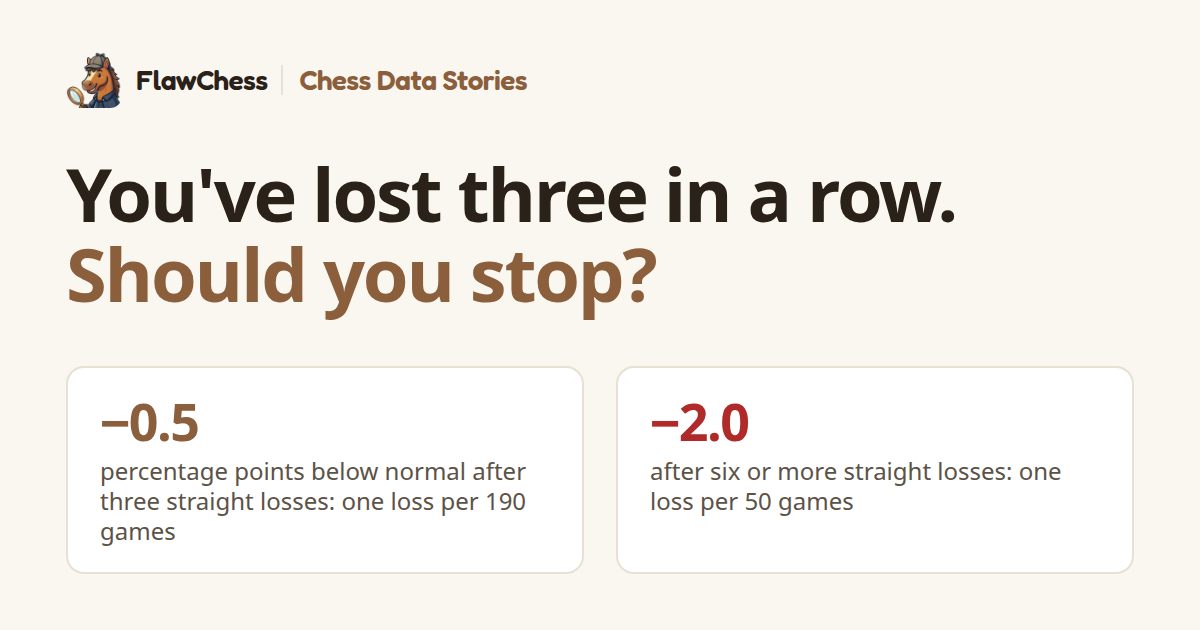
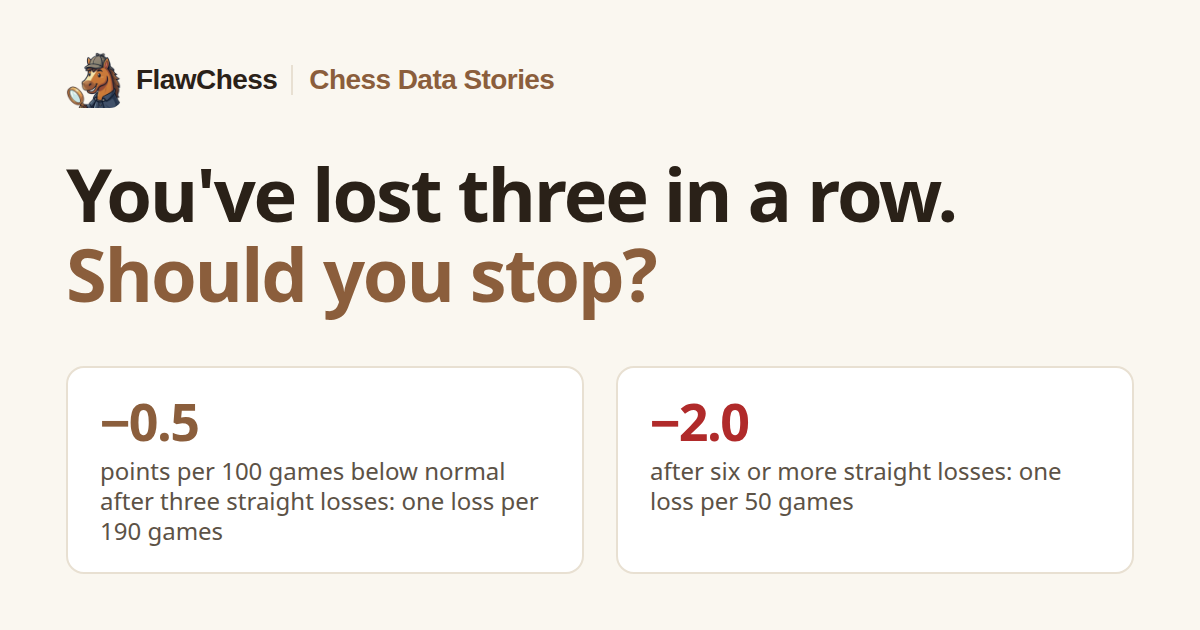
story(tilt): express score differences as points per 100 games
"Percentage points" asked readers to hold two abstractions; "points per
100 games" is the same quantity in the reader's own currency (a win is a
point, a draw half). Applied story-wide: hero, first mention in each
section, chart titles, table headers, tooltips, the About box, and the
social card. The session-total figure now says "per 100 games you play"
so its base is not confused with per-100-post-streak games. Report notes
the two labels are the same unit.

Claude-Session: https://claude.ai/code/session_01S9kxhogG1yf3YV85WJRGAh

Changed region(s): [[0.0617, 0.7238, 0.4625, 0.8746], [0.1233, 0.0905, 0.4625, 0.1508]]

diff --git a/stories/tilt/index.html b/stories/tilt/index.html
@@ -16,7 +16,7 @@
 <meta property="og:image" content="https://stories.flawchess.com/tilt/social-card.png">
 <meta property="og:image:width" content="1200">
 <meta property="og:image:height" content="630">
-<meta property="og:image:alt" content="You've lost three in a row. Should you stop? Half a percentage point below normal in the next game: one win turned into a loss every 190 games.">
+<meta property="og:image:alt" content="You've lost three in a row. Should you stop? Half a point per 100 games below normal in the next game: one win turned into a loss every 190 games.">
 <meta property="article:published_time" content="2026-09-08">
 <meta property="article:author" content="Adrian Imfeld">
 <meta property="article:section" content="Chess">
@@ -197,11 +197,12 @@
   and looked at what happens in the game <i>after</i> a losing streak. The short version: <b>your own stats overstate
   tilt badly</b> and <b>what is left once you compare like with like is small</b>.</p>
   <div class="hero-stats" aria-label="The cost of a losing streak in the next game">
-    <div class="tile tilt"><div class="big">&minus;0.5</div><div class="lbl">percentage points below normal in the game after <b>three straight losses</b>: one win turned into a loss every 190 games</div></div>
+    <div class="tile tilt"><div class="big">&minus;0.5</div><div class="lbl">points per 100 games below normal in the game after <b>three straight losses</b>: one win turned into a loss every 190 games</div></div>
     <div class="tile loss"><div class="big">&minus;2.0</div><div class="lbl">after <b>six or more</b> straight losses: one win turned into a loss every 50 games</div></div>
   </div>
   <p class="hero-note">Score is the usual chess average: a win counts 1, a draw &frac12;, a loss 0, so 50% means wins and losses balance
-  out. Differences are in percentage points of that average: &minus;0.5 is half a game-point per 100 games. "Normal" is what players at the
+  out. Differences are in points per 100 games: &minus;0.5 means half a point less per 100 games than normal (the same thing as
+  half a percentage point of score). "Normal" is what players at the
   same rating score in the same kind of game. 35,281 games played right after exactly three losses in one sitting, against a fresh
   opponent within 100 rating points. Your raw game history shows a swing several times bigger, and <a href="#raw-stats">section 1</a>
   explains where the rest comes from.</p>
@@ -213,8 +214,8 @@
   <a class="anchor" href="#raw-stats" aria-label="Link to this section">#</a></div>
   <p class="lede">Let's start with the naive version of the question: line up each player's games and look at the one right after a streak.
   In the 2.67 million games here, players average a <b>43%</b> score in the game after six or more
-  straight losses, and <b>65%</b> after six or more straight wins. That is a 22-point
-  swing, and it is the kind of number articles about tilt usually report: one <a href="https://chessanalysis.co/research/chess-improvement-rating-trajectories" data-umami-event="outbound-citation" data-umami-event-url="chessanalysis.co">analysis of 840,000 Lichess games</a>
+  straight losses, and <b>65%</b> after six or more straight wins. That is a swing of 22 points
+  per 100 games, and it is the kind of number articles about tilt usually report: one <a href="https://chessanalysis.co/research/chess-improvement-rating-trajectories" data-umami-event="outbound-citation" data-umami-event-url="chessanalysis.co">analysis of 840,000 Lichess games</a>
   puts the next game at 39% after five straight losses and 58% after five straight wins, and a <a href="http://seandevine.org/blog/chessBlog.html" data-umami-event="outbound-citation" data-umami-event-url="seandevine.org">regression on a
   million games</a> finds that even the result from seven games back still predicts the current one. Almost none of it
   survives four checks:</p>
@@ -246,7 +247,7 @@
   streak is on average a few points above you and the one after a winning streak a few points below, and what your rating
   <i>predicts</i> for the next game is 50.3% and 51.0%, against 50.8% for an ordinary game in this sample (the dotted line
   is that prediction, and its zero point is the sample's own average, not 50%). The gap
-  between the solid line and the dotted line is what is left: <b>&minus;2.0</b> percentage points after losses, and after wins its
+  between the solid line and the dotted line is what is left: <b>&minus;2.0</b> points per 100 games after losses, and after wins its
   mirror image, what sports science calls the <b>hot hand</b>: <b>+1.7</b>. Both are small. This story calls the gap
   after losses tilt for short, but it is a shortfall against a benchmark, not a reading of anyone's mood: fatigue,
   distraction, a bad connection and the fact that only players who kept playing are counted all feed into it.</p>
@@ -260,7 +261,7 @@
   are what the rest of this story is about.</div>
   <details class="tbl"><summary>View the data</summary><div>
     <table>
-      <thead><tr><th>Streak just ended</th><th>Games (raw)</th><th>Raw history</th><th>Same rating</th><th>+ one sitting, fresh opponent</th><th>+ settled accounts</th><th>Expected from ratings</th><th>Difference</th></tr></thead>
+      <thead><tr><th>Streak just ended</th><th>Games (raw)</th><th>Raw history</th><th>Same rating</th><th>+ one sitting, fresh opponent</th><th>+ settled accounts</th><th>Expected from ratings</th><th>Difference (points per 100 games)</th></tr></thead>
       <tbody>
         <tr><td>6+ losses</td><td>37,724</td><td>43.4%</td><td>47.6%</td><td>47.8%</td><td>48.3%</td><td>50.3%</td><td>&minus;2.0</td></tr>
         <tr><td>5 losses</td><td>33,889</td><td>47.5%</td><td>49.1%</td><td>49.2%</td><td>48.9%</td><td>50.5%</td><td>&minus;1.6</td></tr>
@@ -290,7 +291,7 @@
   <div class="card-head"><div class="num">2</div>
   <h2>What is left is small, and grows with the streak</h2>
   <a class="anchor" href="#how-big" aria-label="Link to this section">#</a></div>
-  <p class="lede">Score minus expectation, one streak length at a time. A single loss costs 0.2 points, barely
+  <p class="lede">Score minus expectation, one streak length at a time. A single loss costs 0.2 points per 100 games, barely
   measurable. Two to four losses cost <b>0.5 to 0.8 points</b>, five cost 1.6, six or more cost 2.0. The hot hand
   mirrors it: three straight wins add 1.0 points, six or more add 1.7. To put those
   numbers in perspective, after three straight losses you still <b>win the next game 48.1%</b> of the time and lose
@@ -300,18 +301,18 @@
   <b>2.3 points</b> below that player's game after a single loss, and the swing from six wins to six losses at 4.4
   points (<a href="https://github.com/flawchess/flawchess/blob/main/stories/tilt/tilt-report.md#2d-within-player-model" data-umami-event="outbound-report-tilt">technical report, section 2d</a>). Changing the definition of a sitting or the account filters moves the tails
   by a few tenths of a point.</p>
-  <p class="ctitle">Score minus expectation in the next game</p>
+  <p class="ctitle">Score minus expectation in the next game, in points per 100 games</p>
   <figure aria-label="Bar chart: score minus expectation in the next game, by streak length from six-plus losses to six-plus wins, with confidence intervals">
     <div id="c2"></div>
   </figure>
-  <div class="callout"><span class="tk">Takeaway:</span> one percentage point of score, one game-point per 100 games, is, for illustration, one
+  <div class="callout"><span class="tk">Takeaway:</span> one point per 100 games is, for illustration, one
   win turned into a loss. After three losses the shortfall is worth about <b>one game in 190</b>; after six or more,
   one in 50. The surplus after wins is about the same size at every streak length. What these numbers are not is a
   measurement of mood: the controls remove opponents, calendar, accounts and each player's own level, but they cannot
   tell tilt from fatigue or distraction, and they only see the players who kept playing.</div>
   <details class="tbl"><summary>View the data</summary><div>
     <table>
-      <thead><tr><th>Streak just ended</th><th>Games</th><th>Next-game score</th><th>Expected</th><th>Difference</th><th>95% interval</th><th>Lose the next game</th></tr></thead>
+      <thead><tr><th>Streak just ended</th><th>Games</th><th>Next-game score</th><th>Expected</th><th>Difference (points per 100 games)</th><th>95% interval</th><th>Lose the next game</th></tr></thead>
       <tbody>
         <tr><td>6+ losses</td><td>4,306</td><td>48.3%</td><td>50.3%</td><td>&minus;2.0</td><td>&minus;3.6 to &minus;0.4</td><td>49.9%</td></tr>
         <tr><td>5 losses</td><td>5,569</td><td>48.9%</td><td>50.5%</td><td>&minus;1.6</td><td>&minus;2.9 to &minus;0.4</td><td>49.3%</td></tr>
@@ -336,12 +337,12 @@
   <div class="card-head"><div class="num">3</div>
   <h2>Rapid players, and beginners, fall furthest</h2>
   <a class="anchor" href="#who-tilts" aria-label="Link to this section">#</a></div>
-  <p class="lede">After three or more losses in a row, bullet players score <b>0.7 points</b> below expectation,
+  <p class="lede">After three or more losses in a row, bullet players score <b>0.7 points per 100 games</b> below expectation,
   blitz players 0.3, rapid players <b>1.8</b>. The hot hand is about the same in all three, +1.1 to +1.3. By rating, the
   shortfall is largest at the bottom: <b>&minus;1.9</b> at 800, then between 0 and &minus;0.8 from 1200 all the way to
   2400, with the hot hand at +0.7 to +1.5 everywhere. These are descriptions of groups, not of causes: rapid players and
   bullet players are different people playing at different clocks, and the intervals of neighbouring groups overlap.</p>
-  <p class="ctitle">Score minus expectation after 3+ losses and after 3+ wins</p>
+  <p class="ctitle">Score minus expectation after 3+ losses and after 3+ wins, in points per 100 games</p>
   <div class="legend" id="lg3"></div>
   <figure aria-label="Two bar charts: score minus expectation after three or more losses and after three or more wins, by time control and by rating">
     <div class="duo">
@@ -354,7 +355,7 @@
   per 150 to 300 games, and the surplus after three wins is larger than the shortfall after three losses.</div>
   <details class="tbl"><summary>View the data</summary><div>
     <table>
-      <thead><tr><th>Group</th><th>Games after 3+ losses</th><th>Score</th><th>Expected</th><th>Difference</th><th>Games after 3+ wins</th><th>Score</th><th>Expected</th><th>Difference</th></tr></thead>
+      <thead><tr><th>Group</th><th>Games after 3+ losses</th><th>Score</th><th>Expected</th><th>Difference (points per 100 games)</th><th>Games after 3+ wins</th><th>Score</th><th>Expected</th><th>Difference (points per 100 games)</th></tr></thead>
       <tbody>
         <tr><td>Bullet</td><td>27,927</td><td>49.8%</td><td>50.5%</td><td>&minus;0.7 (&minus;1.1 to &minus;0.2)</td><td>37,378</td><td>52.0%</td><td>50.8%</td><td>+1.2 (+0.7 to +1.6)</td></tr>
         <tr><td>Blitz</td><td>19,719</td><td>50.3%</td><td>50.6%</td><td>&minus;0.3 (&minus;0.9 to +0.4)</td><td>25,743</td><td>52.2%</td><td>51.0%</td><td>+1.1 (+0.5 to +1.7)</td></tr>
@@ -377,7 +378,7 @@
   <h2>Does a break help? The data cannot say.</h2>
   <a class="anchor" href="#breaks" aria-label="Link to this section">#</a></div>
   <p class="lede">The obvious remedy is to walk away, and the data on what happens next is awkward. Players who
-  start their next game within a minute of a second straight loss score <b>0.1 points</b> below expectation. Players
+  start their next game within a minute of a second straight loss score <b>0.1 points per 100 games</b> below expectation. Players
   who pause for 10&ndash;30 minutes score <b>2.4 below</b>. That is not a causal claim: the player who steps away after
   two losses is often the one who is more upset, more tired or more distracted, and a ten-minute break is more likely
   to be a phone call than a meditation. The fairer comparison is the <b>gap</b> between players coming off wins and
@@ -392,15 +393,15 @@
   sessions. And bullet has a twist: playing straight on after two losses costs nothing (+0.1), a 3&ndash;10 minute
   pause is followed by <b>&minus;2.9</b>, and the first game of <i>any</i> bullet session runs <b>&minus;2.1</b>. A cold
   start costs a bullet player more than a losing streak ever does.</p>
-  <p class="ctitle">Score minus expectation after 2+ losses or 2+ wins, by the break before the next game</p>
+  <p class="ctitle">Score minus expectation after 2+ losses or 2+ wins, by the break before the next game, in points per 100 games</p>
   <div class="legend" id="lg4"></div>
   <figure aria-label="Line chart: score minus expectation in the next game after two or more losses and after two or more wins, by the length of the break before it, all time controls">
     <div id="c4"></div>
   </figure>
   <div class="callout"><span class="tk">Takeaway:</span> a "stop after two losses" rule cannot be tested here, because
   the games it would have prevented were never played. What the data give is a sense of scale: games played right
-  after two or more losses in one sitting are 9% of all games and run 0.7 points below expectation, which adds up to
-  <b>0.07 points per 100 games</b> (0.11 in rapid), less than one point per thousand games. Whether stopping would
+  after two or more losses in one sitting are 9% of all games and run 0.7 points per 100 games below expectation, which adds up to
+  <b>0.07 points per 100 games you play</b> (0.11 in rapid), less than one point per thousand games. Whether stopping would
   recover any of that, no game history can show. If you take a break, take it for your mood.</div>
   <details class="tbl"><summary>View the data</summary><div>
     <table>
@@ -442,7 +443,7 @@
   the "never reached an endgame" cell with every other short loss, so this cut cannot tell that kind of blown win from
   a collapse. What it can say is that among players who kept playing, the game you fought hard and lost is not
   followed by a worse one.</p>
-  <p class="ctitle">Score minus expectation in the next game, by what the loss looked like</p>
+  <p class="ctitle">Score minus expectation in the next game, by what the loss looked like, in points per 100 games</p>
   <figure aria-label="Bar chart: score minus expectation in the game after a loss, split by how the loss ended, how long it lasted, and the position when it entered the endgame">
     <div id="c5"></div>
   </figure>
@@ -494,7 +495,7 @@
     included, 32% and 25%).</li>
     <li><b>Take revenge.</b> Sections 1 to 5 measured streaks against fresh opponents; here the rematch comes back.
     One next game in eleven is a rematch against the opponent who just won. Those games average
-    <b>47.9%</b> against an expectation of 49.7%: <b>&minus;1.8 points</b>, against &minus;0.5 for the next game against
+    <b>47.9%</b> against an expectation of 49.7%: <b>&minus;1.8 points per 100 games</b>, against &minus;0.5 for the next game against
     someone new, so the rematch itself costs about 1.3 points (1.5 for the first rematch of a pairing). How much of that
     is the matchup and how much is you, the data cannot split: the player who just beat you is, on the evidence of that
     game, a little better than their rating, and the mirror shows a matching bonus (the first rematch against someone you
@@ -506,7 +507,7 @@
   <div class="legend" id="lg6"></div>
   <figure aria-label="Two bar charts: score minus expectation when rematching the same opponent versus playing a new one, after a loss and after a win; and the share of sessions that end after a loss versus after a win, by time control">
     <div class="duo">
-      <div><p class="psub">Score minus expectation in the next game</p><div id="c6a"></div></div>
+      <div><p class="psub">Score minus expectation in the next game, points per 100 games</p><div id="c6a"></div></div>
       <div><p class="psub">Chance the session ends after this game</p><div id="c6b"></div></div>
     </div>
   </figure>
@@ -542,11 +543,11 @@
     <a class="anchor" href="#takeaways" aria-label="Link to this section">#</a>
   </div>
   <ul class="adv">
-    <li><b>Your stats overstate tilt.</b> After three straight losses your next game runs 0.5 points below what your
+    <li><b>Your stats overstate tilt.</b> After three straight losses your next game runs 0.5 points per 100 games below what your
     rating predicts, the equivalent of one win turned into a loss every 190 games; after six or more, one per 50. Your
     raw stats show a swing several times bigger, and that part is who you were playing and when, not you.</li>
     <li><b>The stop-loss rule is untested, not disproven.</b> Games played right after two losses in one sitting cost
-    0.07 points per 100 games in total, and whether stopping would recover any of that, no game history can show,
+    0.07 points per 100 games you play in total, and whether stopping would recover any of that, no game history can show,
     because the games that stopped players would have played do not exist. What the data do show: in bullet, a cold
     start (2.1 points for the first game of a sitting) is bigger than any losing streak.</li>
     <li><b>Think twice about the revenge rematch.</b> The immediate rematch against the player who just beat you runs
@@ -574,7 +575,8 @@
     (rematches are analyzed on their own in section 6). "Expected" is the average score of players in the same time control, 400-point rating band, colour and
     25-point rating-gap bin, measured on the same kind of games (settled accounts, not the first game of a sitting),
     because Lichess ratings are not quite Elo-calibrated: a 100 to 150-point favourite scores about 63%, not the 67%
-    the Elo formula predicts. Every interval is a bootstrap over players, and for the main curve it also allows for the
+    the Elo formula predicts. Differences between score and expectation are given in points per 100 games (a win counts 1, a draw
+    &frac12;), which is the same quantity as percentage points of score. Every interval is a bootstrap over players, and for the main curve it also allows for the
     uncertainty in that expectation. A model that compares each player only with themselves, at the same clock
     setting and rating gap, reproduces the main curve. Every number describes players who kept playing within the
     hour; the players who stopped are, by construction, not observed, and nothing here measures mood directly.
@@ -824,7 +826,7 @@ function renderC2(){
     txt(svg,cx,v<0?yFor(TILT.lo[i])+18:yFor(TILT.hi[i])-8,signed(v),{class:"dlabel","text-anchor":"middle",fill:c,"font-size":W<560?"12":"15"});
     txt(svg,cx,H-36,xLabel(x),{class:"axis","text-anchor":"middle"});
     bindTip(rect,`<div class="t">After ${xPhrase(x)}</div>Average score in the next game: <b>${LADDER.ctrl[i].toFixed(1)}%</b> against an expected `+
-      `${LADDER.expected[i].toFixed(1)}%: <b>${signed(v)}</b> points (95% interval ${signed(TILT.lo[i])} to ${signed(TILT.hi[i])}), ${fmt(LADDER.nCtrl[i])} games.`);
+      `${LADDER.expected[i].toFixed(1)}%: <b>${signed(v)}</b> points per 100 games (95% interval ${signed(TILT.lo[i])} to ${signed(TILT.hi[i])}), ${fmt(LADDER.nCtrl[i])} games.`);
   });
   txt(svg,L+(W-L-R)/2,H-12,W<560?"Streak just ended (losses left, wins right)":"Streak just ended (losses on the left, wins on the right)",{class:"axis","text-anchor":"middle"});
 }
@@ -845,7 +847,7 @@ function coldHotPanel(id,d,what){
       const rect=el("rect",{x:cx-bw/2,y:Math.min(y0,y1),width:bw,height:Math.max(Math.abs(y0-y1),1),rx:3,fill:c},svg);
       whisker(svg,cx,yFor(d[k+"Lo"][i]),yFor(d[k+"Hi"][i]),COL.ink);
       txt(svg,cx,v<0?yFor(d[k+"Lo"][i])+16:yFor(d[k+"Hi"][i])-7,signed(v),{class:"dlabel","text-anchor":"middle",fill:c,"font-size":"13"});
-      bindTip(rect,`<div class="t">${lab} &middot; after ${name}</div><b>${signed(v)}</b> points against expectation `+
+      bindTip(rect,`<div class="t">${lab} &middot; after ${name}</div><b>${signed(v)}</b> points per 100 games against expectation `+
         `(${signed(d[k+"Lo"][i])} to ${signed(d[k+"Hi"][i])}), ${fmt(d[k+"N"][i])} games.`);
     });
     txt(svg,gx,H-34,lab,{class:"axis","text-anchor":"middle"});
@@ -878,7 +880,7 @@ function renderC4(){
       whisker(svg,p[0],yFor(BREAKS[k+"Lo"][i]),yFor(BREAKS[k+"Hi"][i]),c);
       el("circle",{cx:p[0],cy:p[1],r:5,fill:c,stroke:"#fff","stroke-width":2},svg);
       const hit=el("circle",{cx:p[0],cy:p[1],r:13,fill:"transparent"},svg);
-      bindTip(hit,`<div class="t">After ${name}, break of ${BREAKS.labels[i]}</div><b>${signed(BREAKS[k][i])}</b> points against expectation `+
+      bindTip(hit,`<div class="t">After ${name}, break of ${BREAKS.labels[i]}</div><b>${signed(BREAKS[k][i])}</b> points per 100 games against expectation `+
         `(${signed(BREAKS[k+"Lo"][i])} to ${signed(BREAKS[k+"Hi"][i])}), ${fmt(BREAKS[k+"N"][i])} games.`);
     });
   });
@@ -904,7 +906,7 @@ function renderC5(){
       txt(svg,cx,v<0?yFor(it.lo)+16:yFor(it.hi)-7,signed(v),{class:"dlabel","text-anchor":"middle",fill:c,"font-size":narrow?"11":"14"});
       txt2(svg,cx,yFor(min)+20,it.l,{class:"axis","text-anchor":"middle","font-size":narrow?"11":"13"});
       bindTip(rect,`<div class="t">The loss ${g.group==="How it ended"?"ended by "+it.l.replace("-|",""):g.group==="How long it lasted"?"lasted "+it.l.replace("|"," "):"reached "+(it.l==="none"?"no endgame":"an endgame "+it.l.replace("|"," "))}</div>`+
-        `Next game: <b>${signed(v)}</b> points against expectation (${signed(it.lo)} to ${signed(it.hi)}), ${fmt(it.n)} games, all time controls.`);
+        `Next game: <b>${signed(v)}</b> points per 100 games against expectation (${signed(it.lo)} to ${signed(it.hi)}), ${fmt(it.n)} games, all time controls.`);
     });
     const gx1=L+slot*(pos+g.items.length);
     txt(svg,(x0+gx1)/2,T-18,g.group,{class:"dlabel","text-anchor":"middle",fill:COL.ink2||"#5C5246","font-size":narrow?"13":"15"});
@@ -934,7 +936,7 @@ function renderC5Narrow(W){
       txt(svg,L-6,cy+4,(it.s||it.l).replace("-|","").replace("|"," "),{class:"axis","text-anchor":"end","font-size":"12.5"});
       // value labels sit just right of the zero line for negative bars (the empty side) and past the whisker for positive ones
       txt(svg,it.v<0?xFor(0)+6:xFor(it.hi)+5,cy+4,signed(it.v),{class:"dlabel","text-anchor":"start",fill:c,"font-size":"12"});
-      bindTip(rect,`<div class="t">${g.group}: ${it.l.replace("-|","").replace("|"," ")}</div>Next game: <b>${signed(it.v)}</b> points against expectation (${signed(it.lo)} to ${signed(it.hi)}), ${fmt(it.n)} games.`);
+      bindTip(rect,`<div class="t">${g.group}: ${it.l.replace("-|","").replace("|"," ")}</div>Next game: <b>${signed(it.v)}</b> points per 100 games against expectation (${signed(it.lo)} to ${signed(it.hi)}), ${fmt(it.n)} games.`);
       y+=rowH;
     });
   });
@@ -957,7 +959,7 @@ function renderC6a(){
       whisker(svg,cx,yFor(it.lo),yFor(it.hi),COL.ink);
       txt(svg,cx,it.v<0?yFor(it.lo)+16:yFor(it.hi)-7,signed(it.v),{class:"dlabel","text-anchor":"middle",fill:it.c,"font-size":"13"});
       txt2(svg,cx,yFor(min)+20,it.l,{class:"axis","text-anchor":"middle","font-size":"12"});
-      bindTip(rect,`<div class="t">${g.l} &middot; ${it.l.replace("|"," ")}</div><b>${signed(it.v)}</b> points against expectation (${signed(it.lo)} to ${signed(it.hi)})`+
+      bindTip(rect,`<div class="t">${g.l} &middot; ${it.l.replace("|"," ")}</div><b>${signed(it.v)}</b> points per 100 games against expectation (${signed(it.lo)} to ${signed(it.hi)})`+
         (it.n?`, ${fmt(it.n)} rematches.`:"."));
     });
     txt(svg,gx,H-14,g.l,{class:"dlabel","text-anchor":"middle",fill:"#5C5246","font-size":"14"});

diff --git a/analysis/tilt_study/social_card.html b/analysis/tilt_study/social_card.html
@@ -33,7 +33,7 @@
   </div>
   <h1>You've lost three in a row.<br><span class="accent">Should you stop?</span></h1>
   <div class="tiles">
-    <div class="tile tilt"><div class="big">&minus;0.5</div><div class="lbl">percentage points below normal after three straight losses: one loss per 190 games</div></div>
+    <div class="tile tilt"><div class="big">&minus;0.5</div><div class="lbl">points per 100 games below normal after three straight losses: one loss per 190 games</div></div>
     <div class="tile loss"><div class="big">&minus;2.0</div><div class="lbl">after six or more straight losses: one loss per 50 games</div></div>
   </div>
 </body>

diff --git a/stories/tilt/tilt-report.md b/stories/tilt/tilt-report.md
@@ -118,7 +118,7 @@ streak is supposed to cause, not as a claim to have isolated it.
   contrast in §3 largely a warm-up artefact. Lichess ratings are not quite Elo-calibrated (a 100–149-point
   favourite scores 63%, not the 67% the Elo formula gives; the logistic scale is ≈520 in blitz, not 400),
   so the Elo formula would fake a hot hand for favourites. **Residual = score − expected**, in percentage
-  points (pp) of score. One point of score per 100 games can be one win turned into a loss, two wins turned
+  points (pp) of score; the story writes the same quantity as game-points per 100 games. One point of score per 100 games can be one win turned into a loss, two wins turned
   into draws, or two draws turned into losses; the story's "one extra loss per N games" is that first
   reading, used as an illustration.
 - **Story hygiene** (applied to every scored number in the story unless stated): drop each user's first
